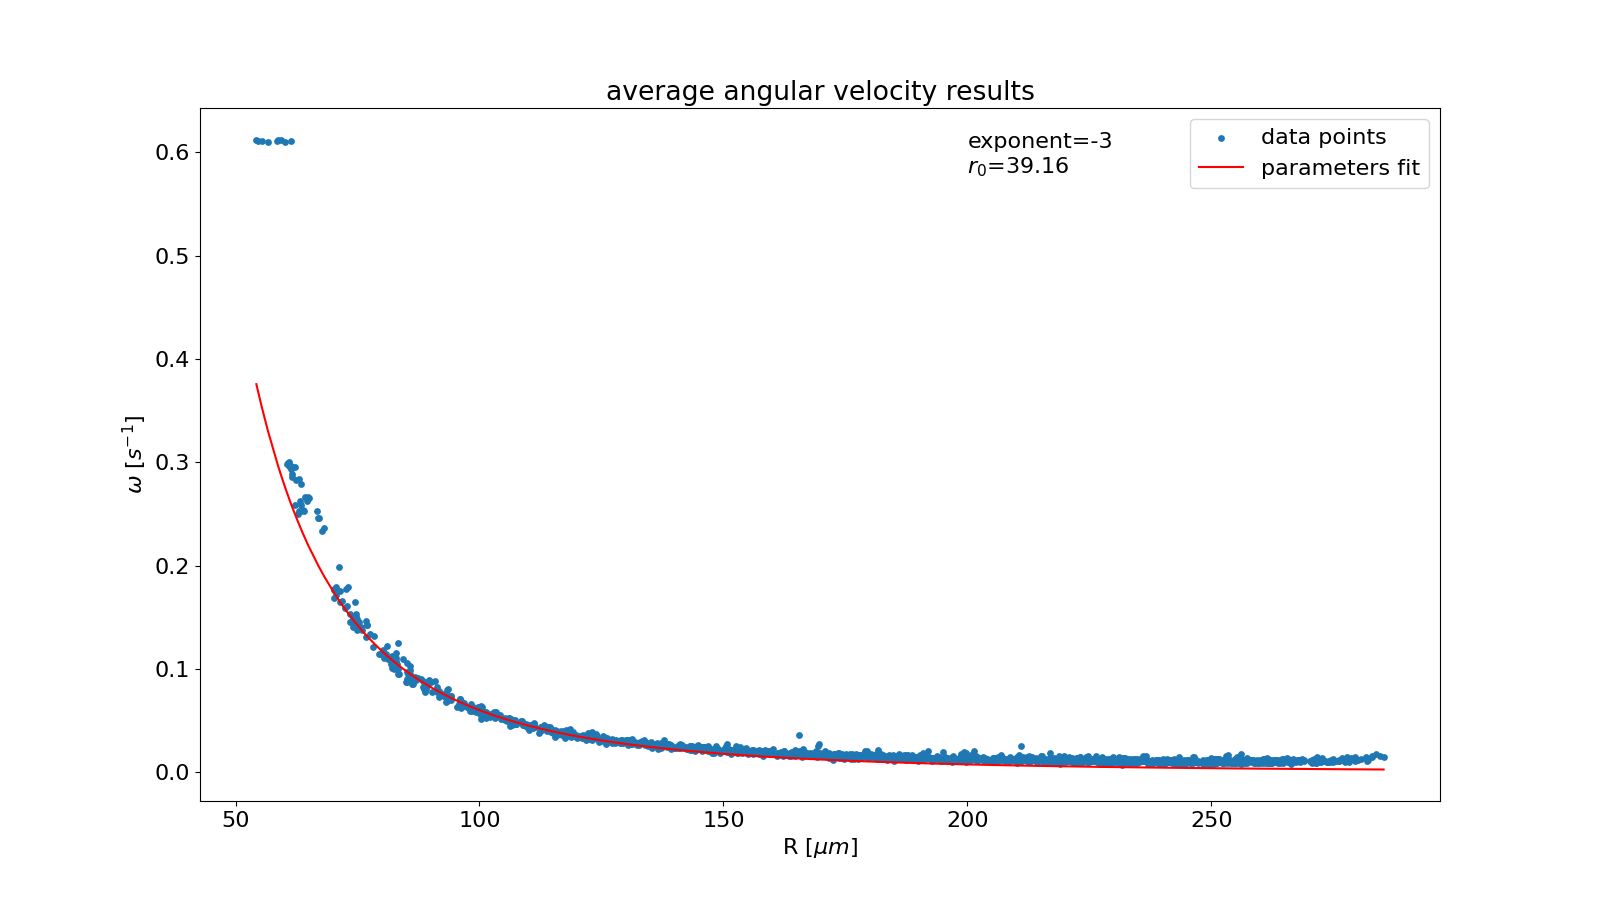
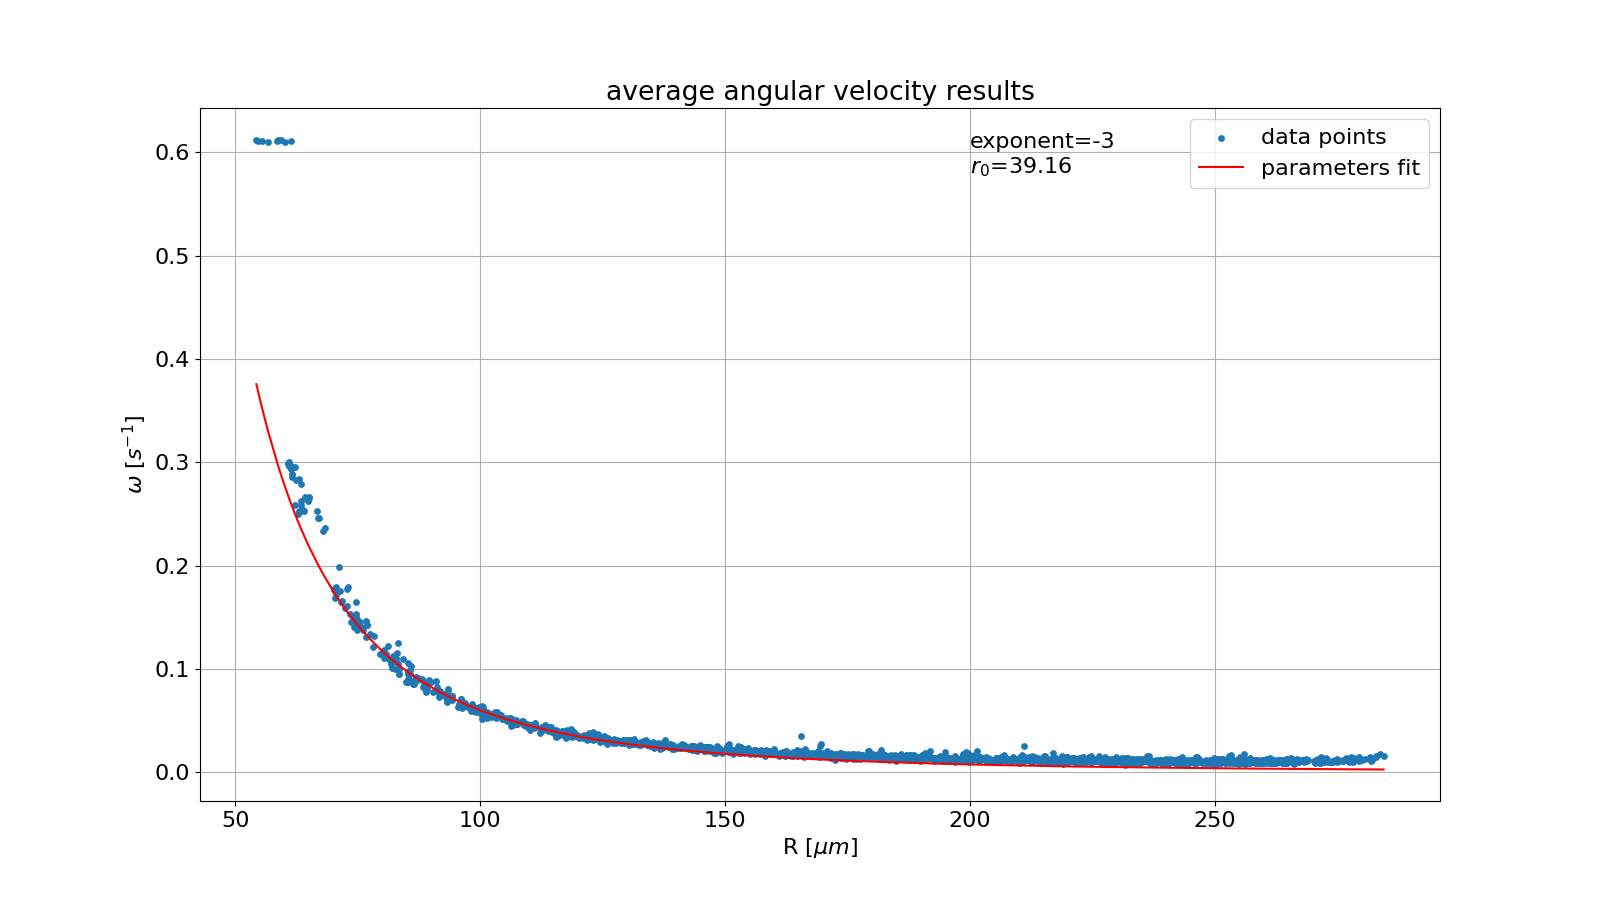
last fixes

diff --git a/code/main_holes.py b/code/main_holes.py
@@ -5,10 +5,11 @@ import trackpy as tp
 from scipy.optimize import curve_fit
 from tqdm import tqdm
 
+plt.rcParams['font.size'] = '16'
+
 
 output_path = 'D:/Exp_Soft_Matter/results/'
 # output_path = '/local/mroot/Exp_Soft_Matter/results/'
-plt.rcParams['font.size'] = '16'
 
 
 # useful lists
@@ -18,9 +19,7 @@ X_COORDS=[]
 Y_COORDS=[]
 TIME_RADII_ANGLES = []
 HOLE_R_OMEGA=[]
-HOLE_R_OMEGA_FILTERED=[]
-FIT_OMEGA=[]
-
+TIMES_OF_TURN=[]
 
 
 # useful parameters
@@ -73,11 +72,12 @@ min_track_length = 890
 filtered_tracks = tp.filter_stubs(linked_particles, min_track_length)
 
 # --------------DEMONSTRATION---------------------
-# # trajectories of ALL particles
+# # trajectories of holes
 # fig, ax = plt.subplots(figsize=(11,11))
 # tp.plot_traj(filtered_tracks, ax=ax)
 # ax.scatter(MIDDLE[0],MIDDLE[1],c='red',s=50,marker='x')
 # ax.set_aspect(1)
+# ax.grid()
 # ax.set_xlabel('x [px]')
 # ax.set_ylabel('y [px]')
 # plt.show()
@@ -86,8 +86,10 @@ filtered_tracks = tp.filter_stubs(linked_particles, min_track_length)
 
 
 
+
 # regroup data by particles
 grouped_trajectories = filtered_tracks.groupby('particle')
+
 
 # transform (x,y)-values to polar coords
 for particle_id, trajectory in grouped_trajectories:
@@ -105,135 +107,37 @@ for particle_id, trajectory in grouped_trajectories:
     TIME_RADII_ANGLES.append(DUMMY)
 
 
-# average over some frames to reduce noise [old]
-# MEAN_TIME_RADII_ANGLES = []
-# avg_number=10
-# for T_R_PHI in TIME_RADII_ANGLES: #for each hole
-#     T_R_PHI = np.array(T_R_PHI)
-#     DUMMY=[]
-#     for idx in range(len(T_R_PHI)-avg_number):
-#         DUMMY_AVG=[]
-#         for i in range(avg_number):
-#             DUMMY_AVG.append(T_R_PHI[idx+1,2])
-#         DUMMY.append((T_R_PHI[idx,0],T_R_PHI[idx,1],np.mean(DUMMY_AVG)))
-#     MEAN_TIME_RADII_ANGLES.append(DUMMY)
-# MEAN_TIME_RADII_ANGLES = np.array(MEAN_TIME_RADII_ANGLES)
 
-
-
-
-T_DPHI=[]
 # change of angle
-skip_num = 10 # to avoid noise
-TIMES_OF_TURN=[]
+skip_num = 15 # to avoid noise
 for t_r_phi in TIME_RADII_ANGLES: #for each hole
+    DUMMY=[]
     t_r_phi = np.array(t_r_phi)
     r_mean = np.mean(t_r_phi[:,1]) #mean radius for comparison
-    # for idx in range(len(t_r_phi)):
-    #     if idx%skip_num:
-    #         dphi = t_r_phi[idx,2] - t_r_phi[idx-skip_num,2]
-    #         T_DPHI.append((t_r_phi[idx,0],dphi))
-    # T_DPHI = np.array(T_DPHI)
     DPHI_skipped = t_r_phi[skip_num:,2] - t_r_phi[:-skip_num,2]
     DPHI = t_r_phi[1:,2] - t_r_phi[:-1,2]
     for dphi in range(len(DPHI_skipped)-1):
         if (DPHI_skipped[dphi] != 0 and (DPHI_skipped[dphi+1]/DPHI_skipped[dphi]) < 0):
-            TIMES_OF_TURN.append(t_r_phi[dphi,0])
+            DUMMY.append(t_r_phi[dphi,0])
+            print('CHANGE AT')
+            print(f'{round(t_r_phi[dphi+1,0],2)}s')
+            print('--------------')
+    TIMES_OF_TURN.append(DUMMY)
     omega_mean = np.mean(np.abs(DPHI))/dt #mean angular velocity for comparison
     HOLE_R_OMEGA.append((r_mean,omega_mean))
 HOLE_R_OMEGA = np.array(HOLE_R_OMEGA)
-TIMES_OF_TURN = np.array(TIMES_OF_TURN)
-TIMES_BETWEEN_TURNS = TIMES_OF_TURN[1:] - TIMES_OF_TURN[:-1]
-time_to_turn = np.mean(TIMES_BETWEEN_TURNS)
-# omega = np.mean(HOLE_R_OMEGA[:,1])
-# f = omega/(2*np.pi)
-# print(omega,f)
+omega = np.mean(HOLE_R_OMEGA[:,1])
 
-print(time_to_turn)
+TIMES_BETWEEN_TURNS=[]
 
-exit()
+for turn_times in TIMES_OF_TURN:
+    turn_times = np.array(turn_times)
+    time_between_turns = turn_times[1:] - turn_times[:-1]
+    TIMES_BETWEEN_TURNS.append(list(time_between_turns))
 
-
-
-
-
-
-
-
-
-
-
-
-
-
-
-
-
-
-
-
-
-
-
-
-
-
-
-
-
-# rearrange along radii
-sorted_indices = np.argsort(HOLE_R_OMEGA_FILTERED[:, 0])
-HOLE_R_OMEGA_FILTERED_SORTED = HOLE_R_OMEGA_FILTERED[sorted_indices]
-
-
-# -----------------------------------------------------------------------------------------
-# -----------------------------------------------------------------------------------------
-
-
-# final data
-RADIUS = px_to_micron*HOLE_R_OMEGA_FILTERED_SORTED[:,0]
-ANG_VELOCITY = HOLE_R_OMEGA_FILTERED_SORTED[:,1]
-
-
-# loglog fit for exponent
-threshold = (HOLE_R_OMEGA_FILTERED_SORTED[:,0]<600) & (HOLE_R_OMEGA_FILTERED_SORTED[:,0]>300)
-# HOLE_R_OMEGA_FILTERED_SORTED_LOGLOG = np.log(HOLE_R_OMEGA_FILTERED_SORTED[threshold])
-RADIUS_LOG = np.log(RADIUS[threshold])
-ANG_VELOCITY_LOG = np.log(ANG_VELOCITY[threshold])
-m,b = np.polyfit(RADIUS_LOG,ANG_VELOCITY_LOG,deg=1)
-
-
-print(m,b)
-
-# parameter fit with extracted exponent
-def omega(radius,y_intercept,r_0):
-    return y_intercept + r_0*radius**-3
-
-params = curve_fit(omega,RADIUS[threshold],ANG_VELOCITY[threshold])
-y_intercept = params[0][0]
-r_0 = params[0][1]
-print(y_intercept,r_0)
-
-for radius in RADIUS:
-    FIT_OMEGA.append(omega(radius,y_intercept,r_0))
-FIT_OMEGA = np.array(FIT_OMEGA)
-
-
-# plotting
-fig, ax = plt.subplots(figsize=(16,9))
-ax.scatter(RADIUS,ANG_VELOCITY,s=15,zorder=5,label='data points')
-ax.plot(np.exp(RADIUS_LOG),np.exp(m*RADIUS_LOG+b),zorder=50,label='loglog linear',linestyle='--',c='k')
-ax.plot(RADIUS,FIT_OMEGA,c='red',zorder=500,label='parameters fit')
-# info = f'exponent={round(m,2)}'
-info = f'exponent=-3\n$r_0$={round(r_0,2)}'
-plt.text(150,ANG_VELOCITY[0],info)
-
-ax.legend()
-ax.set_xlabel('R [$\mu m$]')
-# ax.set_xlabel('R [px]')
-ax.set_ylabel('$\omega$ [$s^{-1}$]')
-# ax.set_xscale('log')
-# ax.set_yscale('log')
-ax.set_title('Average angular velocity results')
-# ax.set_title('average angular velocity results, loglog scaling')
-plt.show()
+print('\n-----------------------------TIME-PASSED-BETWEEN-DIRECTION-CHANGE-------------------------------\n')
+for idx,TIMES in enumerate(TIMES_BETWEEN_TURNS):
+    print(f'hole Nr.{idx+1}: {TIMES}')
+print()
+print(f'mean angular velocity of disc: {omega} s^-1')
+print('\n------------------------------------------------------------------------------------------------\n')

diff --git a/code/plot_holes.py b/code/plot_holes.py
@@ -62,16 +62,16 @@ for particle_id, trajectory in grouped_trajectories:
     for i in range(len(X_Y)):
         # find angle
         r = np.sqrt(X_Y[i,0]**2 + X_Y[i,1]**2)
-        print()
-        print(r,X_Y[i])
+        # print()
+        # print(r,X_Y[i])
         if X_Y[i,1] >= 0:
-            print(f'y>0')
+            # print(f'y>0')
             phi = np.arccos(X_Y[i,0]/r)
         else:
-            print(f'y<0')
-            print(f'arccos={np.arccos(X_Y[i,0]/r)}')
+            # print(f'y<0')
+            # print(f'arccos={np.arccos(X_Y[i,0]/r)}')
             phi = 2*np.pi - np.arccos(X_Y[i,0]/r)
-        print(phi)
+        # print(phi)
         DUMMY.append((i,r,phi))
     FRAMES_RADII_ANGLES.append(DUMMY)
 # exit()
@@ -110,7 +110,7 @@ R_OMEGA_MEAN = np.array(R_OMEGA_MEAN)
 AXIS=np.linspace(-100,100,10)
 ZEROS=np.zeros(10)
 
-fig, ax = plt.subplots()
+fig, ax = plt.subplots(figsize=(11,11))
 ax.plot(AXIS,ZEROS,c='gray',alpha=0.7,linestyle='--')
 ax.plot(ZEROS,AXIS,c='gray',alpha=0.7,linestyle='--')
 for particle_id, trajectory in grouped_trajectories:
@@ -120,6 +120,7 @@ for particle_id, trajectory in grouped_trajectories:
 ax.set_xlabel('x [px]')
 ax.set_ylabel('y [px]')
 # tp.plot_traj(filtered_tracks,ax=ax)
+ax.set_aspect(1)
 ax.grid()
 plt.show()
 # -----------------------------------------------------------------------------------------

diff --git a/code/main.py b/code/main.py
@@ -143,8 +143,9 @@ RADIUS_LOG = np.log(RADIUS[threshold])
 ANG_VELOCITY_LOG = np.log(ANG_VELOCITY[threshold])
 m,b = np.polyfit(RADIUS_LOG,ANG_VELOCITY_LOG,deg=1)
 
-
-print(m,b)
+print('\n\n\n-----------------------------LOGLOG-FIT------------------------------\n')
+print(f'exponent={m}')
+print('\n---------------------------------------------------------------------\n')
 
 
 # parameter fit with extracted exponent
@@ -160,8 +161,10 @@ for radius in RADIUS:
     FIT_OMEGA.append(omega(radius,0,r_0))
 FIT_OMEGA = np.array(FIT_OMEGA)
 
+print('\n-----------------------------PARAMETER-FIT-----------------------------\n')
+print(f'y-intercept={y_intercept}, scaling_parameter={r_0}')
+print('\n-----------------------------------------------------------------------\n')
 
-print(y_intercept,r_0)
 
 
 # plotting
@@ -175,14 +178,15 @@ ax.set_title('average angular velocity results')
 ax.set_xlabel('R [$\mu m$]')
 ax.set_ylabel('$\omega$ [$s^{-1}$]')
 ax.legend()
-
+ax.grid()
 plt.text(200,0.58,info)
 
 # ---------log---------
 # ax.set_xscale('log')
 # ax.set_yscale('log')
 # ax.set_title('average angular velocity results, loglog scaling')
-# info = f'exponent={round(m,2)}\n$r_0$={round(r_0,2)}'
+# info = f'exponent={round(m,2)}'
+# # info = f'exponent={round(m,2)}\n$r_0$={round(r_0,2)}'
 # plt.text(150,0.5,info)
 
 
